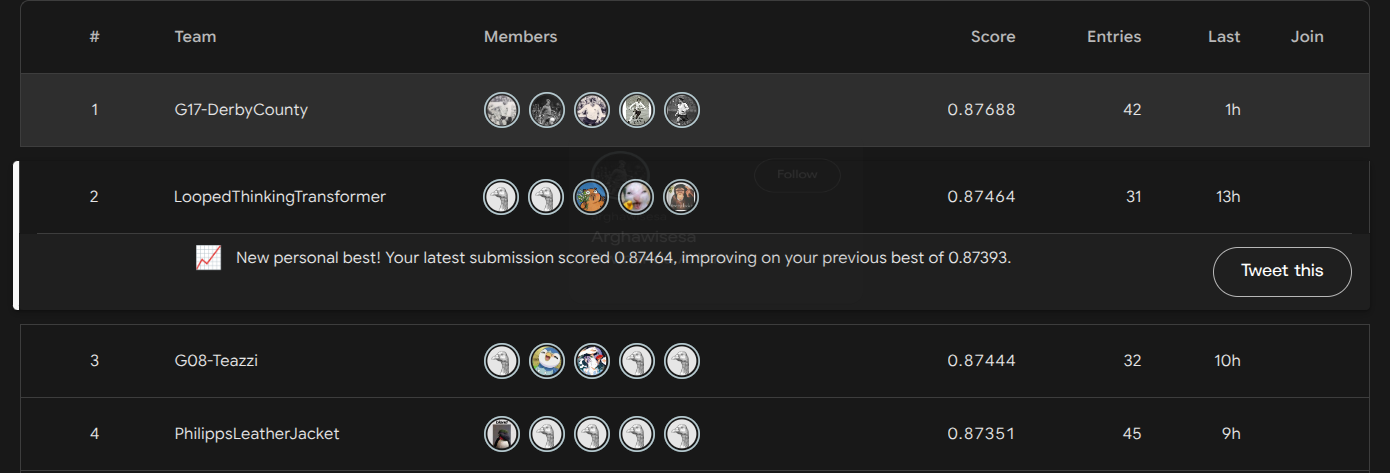
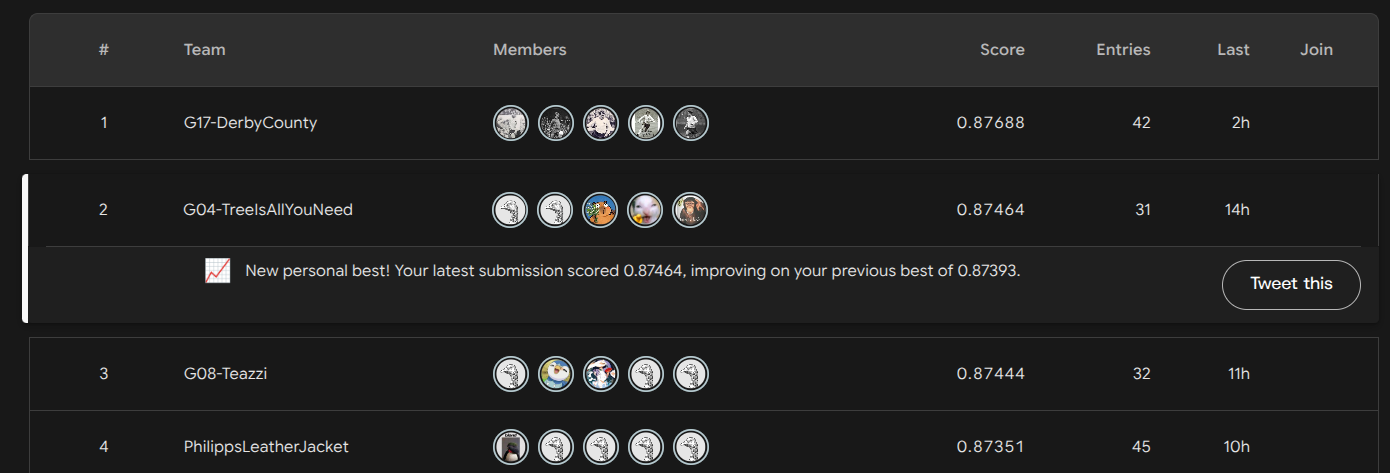
docs(laporan): use the renamed Kaggle team
The leaderboard team is now G04-TreeIsAllYouNeed, matching the group
name the spec requires; refresh the screenshot and the text with it.

diff --git a/docs/laporan/sections/02-pembahasan/09-kaggle.tex b/docs/laporan/sections/02-pembahasan/09-kaggle.tex
@@ -33,7 +33,7 @@ ikut dipilih sebagai cadangan, karena selisih skor \textit{public} keduanya hany
 daripada variasi skor \textit{public} yang kami amati antarsubmisi DTL yang hanya berbeda
 \textit{seed} (sekitar 0,005). Kedua submisi dapat direproduksi dari notebook masing-masing.
 
-Kelompok terdaftar di \textit{leaderboard} dengan nama tim \textit{LoopedThinkingTransformer}.
+Kelompok terdaftar di \textit{leaderboard} dengan nama tim \texttt{G04-TreeIsAllYouNeed}.
 Dengan submisi SVM tersebut, kelompok berada di peringkat 2 pada \textit{public leaderboard} dengan
 skor 0,87464, selisih 0,00224 dari peringkat 1 (Gambar~\ref{fig:kaggle}). Peringkat ini adalah
 posisi \textit{public leaderboard} pada saat gambar diambil; peringkat akhir ditentukan oleh
@@ -77,6 +77,6 @@ dengan keluaran notebook gabungan sebelumnya (\texttt{kaggle\_final.ipynb}), yan
 \begin{figure}[H]
 	\centering
 	\includegraphics[width=\textwidth]{kaggle.png}
-	\caption{Posisi kelompok (\textit{LoopedThinkingTransformer}) pada \textit{public leaderboard} Kaggle}
+	\caption{Posisi kelompok (\texttt{G04-TreeIsAllYouNeed}) pada \textit{public leaderboard} Kaggle}
 	\label{fig:kaggle}
 \end{figure}
